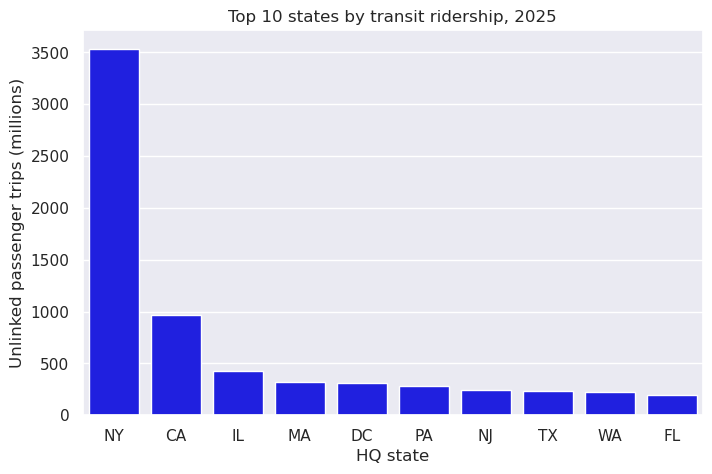
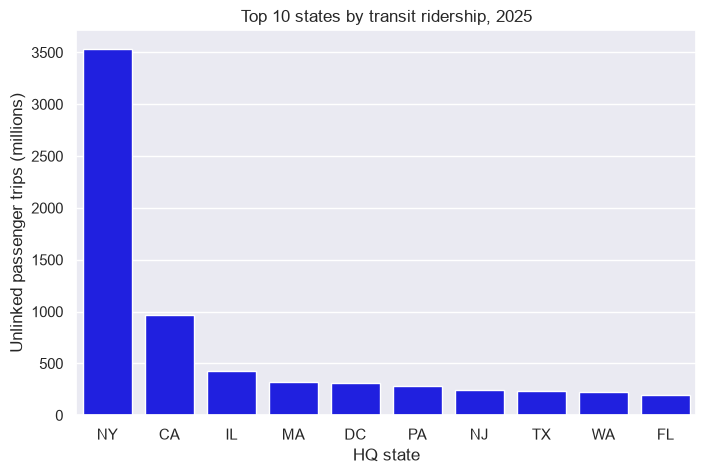
modify the year to 2016-2025

diff --git a/transit_data.py b/transit_data.py
@@ -6,8 +6,8 @@ import seaborn as sns
 sns.set_theme()
 
 
-DATA = "transit.xlsx"
-FIRST = 2015
+DATA = "September 2026 Complete Monthly Ridership (with adjustments and estimates)_261102.xlsx"
+FIRST = 2016
 LAST = 2025
 
 def read_transit(data: str) -> pd.DataFrame:
